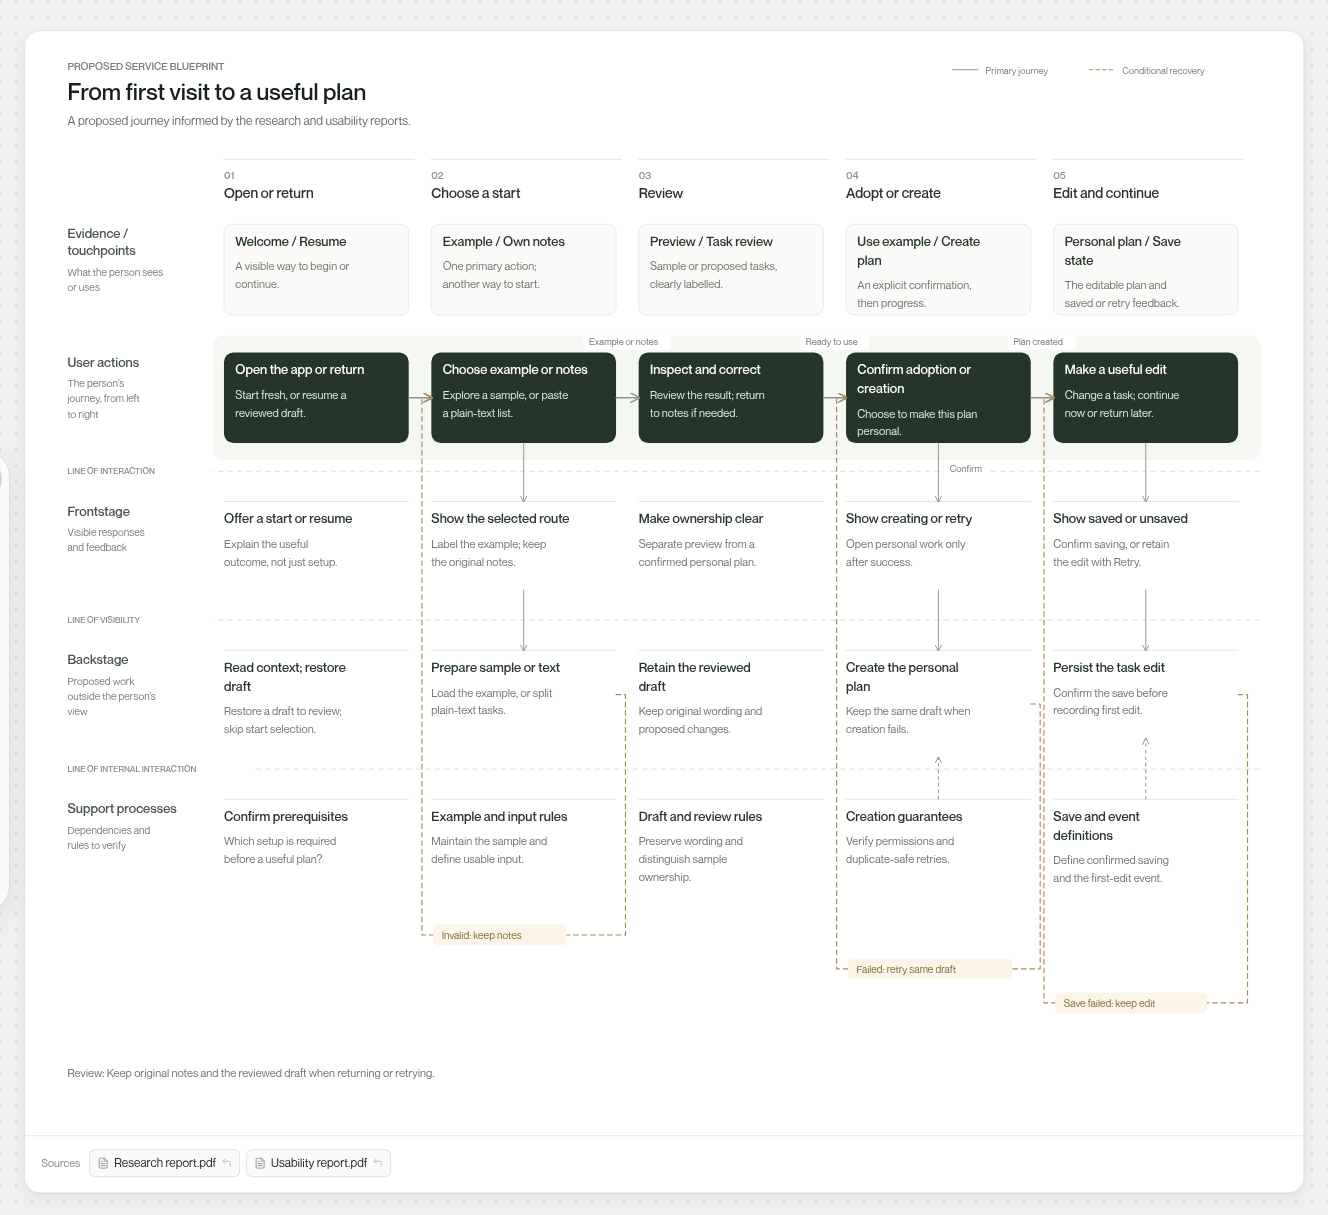
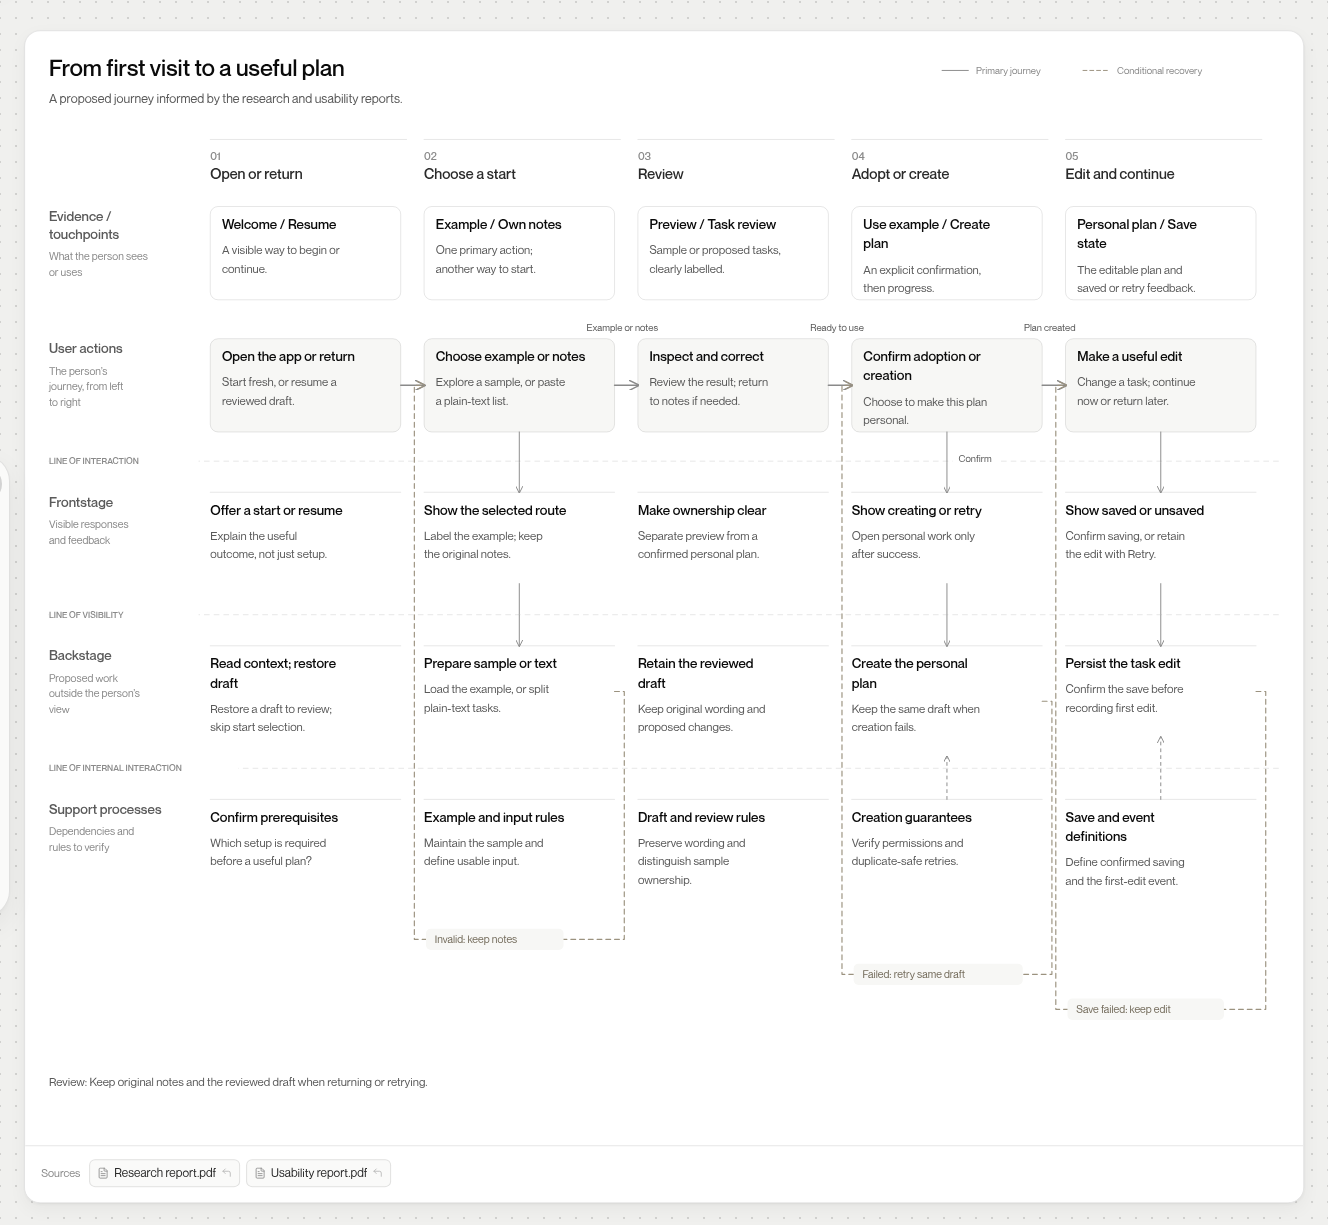
Match blueprint styling to native Jarwiz cards

diff --git a/work/jarwiz-ui-review/index.html b/work/jarwiz-ui-review/index.html
@@ -71,8 +71,8 @@
         <button type="button" class="surface-tab" id="tab-attachments" role="tab" aria-selected="false" aria-controls="surface-panel" tabindex="-1" data-surface="attachments"><span class="tab-preview"><img src="./surfaces/attachments.png" alt="" loading="lazy"></span><span>Attachments</span></button>
         <button type="button" class="surface-tab" id="tab-research" role="tab" aria-selected="false" aria-controls="surface-panel" tabindex="-1" data-surface="research"><span class="tab-preview"><img src="./surfaces/research.png" alt="" loading="lazy"></span><span>Research</span></button>
         <button type="button" class="surface-tab" id="tab-comparison" role="tab" aria-selected="false" aria-controls="surface-panel" tabindex="-1" data-surface="comparison"><span class="tab-preview"><img src="./surfaces/comparison.png" alt="" loading="lazy"></span><span>Comparison</span></button>
-        <button type="button" class="surface-tab" id="tab-blueprint" role="tab" aria-selected="false" aria-controls="surface-panel" tabindex="-1" data-surface="blueprint"><span class="tab-preview"><img src="./surfaces/blueprint.png" alt="" loading="lazy"></span><span>Blueprint</span></button>
-        <button type="button" class="surface-tab" id="tab-canvas" role="tab" aria-selected="false" aria-controls="surface-panel" tabindex="-1" data-surface="canvas"><span class="tab-preview"><img src="./surfaces/canvas.png" alt="" loading="lazy"></span><span>Canvas</span></button>
+        <button type="button" class="surface-tab" id="tab-blueprint" role="tab" aria-selected="false" aria-controls="surface-panel" tabindex="-1" data-surface="blueprint"><span class="tab-preview"><img src="./surfaces/blueprint.png?v=neutral" alt="" loading="lazy"></span><span>Blueprint</span></button>
+        <button type="button" class="surface-tab" id="tab-canvas" role="tab" aria-selected="false" aria-controls="surface-panel" tabindex="-1" data-surface="canvas"><span class="tab-preview"><img src="./surfaces/canvas.png?v=neutral" alt="" loading="lazy"></span><span>Canvas</span></button>
       </div>
       <div id="surface-panel" role="tabpanel" aria-labelledby="tab-start" tabindex="0">
         <figure class="surface-figure">
@@ -106,7 +106,7 @@
     const panel=document.querySelector('#surface-panel'),stage=document.querySelector('.surface-stage'),mainImage=document.querySelector('#surface-image'),imageLink=document.querySelector('#surface-open'),fullLink=document.querySelector('#surface-full'),empty=document.querySelector('#surface-empty');
     const dialog=document.querySelector('#surface-lightbox'),dialogImage=document.querySelector('#lightbox-image'),sizeButton=document.querySelector('#lightbox-size');
     let selected='start',previousOverflow='';
-    const path=key=>`./surfaces/${key}.png`;
+    const path=key=>`./surfaces/${key}.png${key==='blueprint'||key==='canvas'?'?v=neutral':''}`;
     function setImageState(ready){empty.hidden=ready;imageLink.style.visibility=ready?'visible':'hidden';fullLink.hidden=!ready;if(ready&&mainImage.naturalWidth){stage.style.aspectRatio=`${mainImage.naturalWidth} / ${mainImage.naturalHeight}`;}}
     function selectSurface(key,focus=false,updateHash=true){
       if(!Object.hasOwn(surfaces,key))return;
